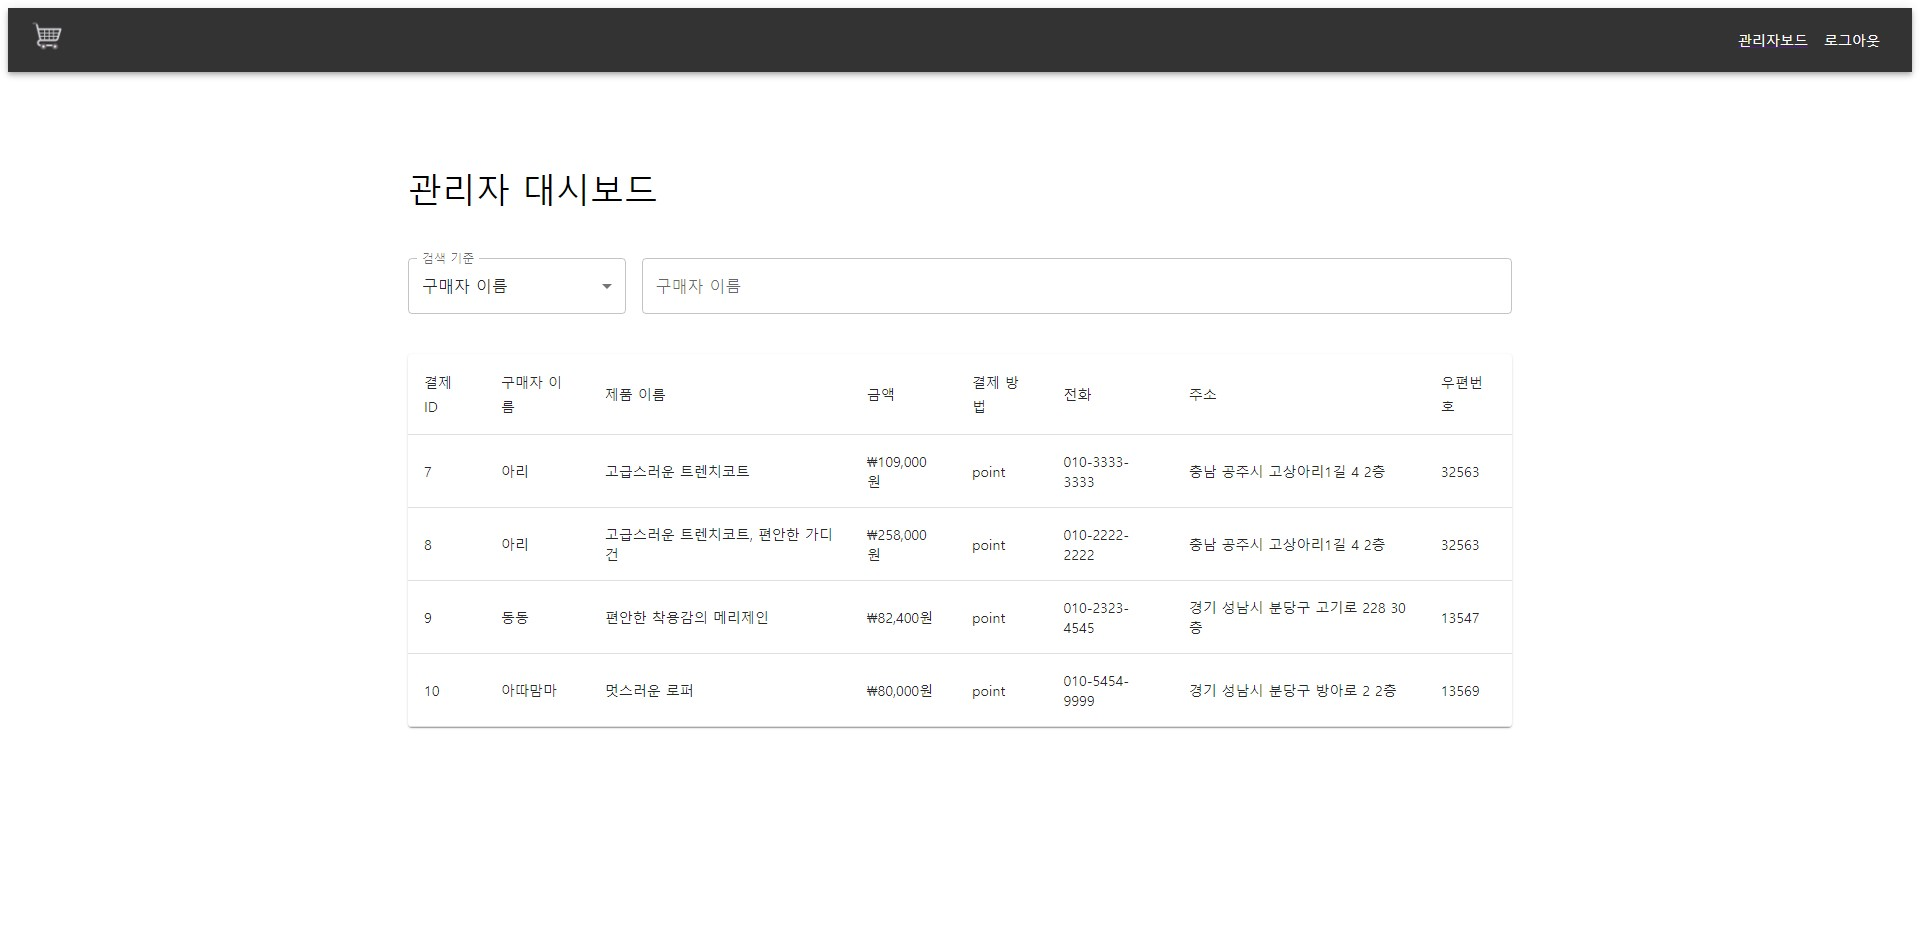
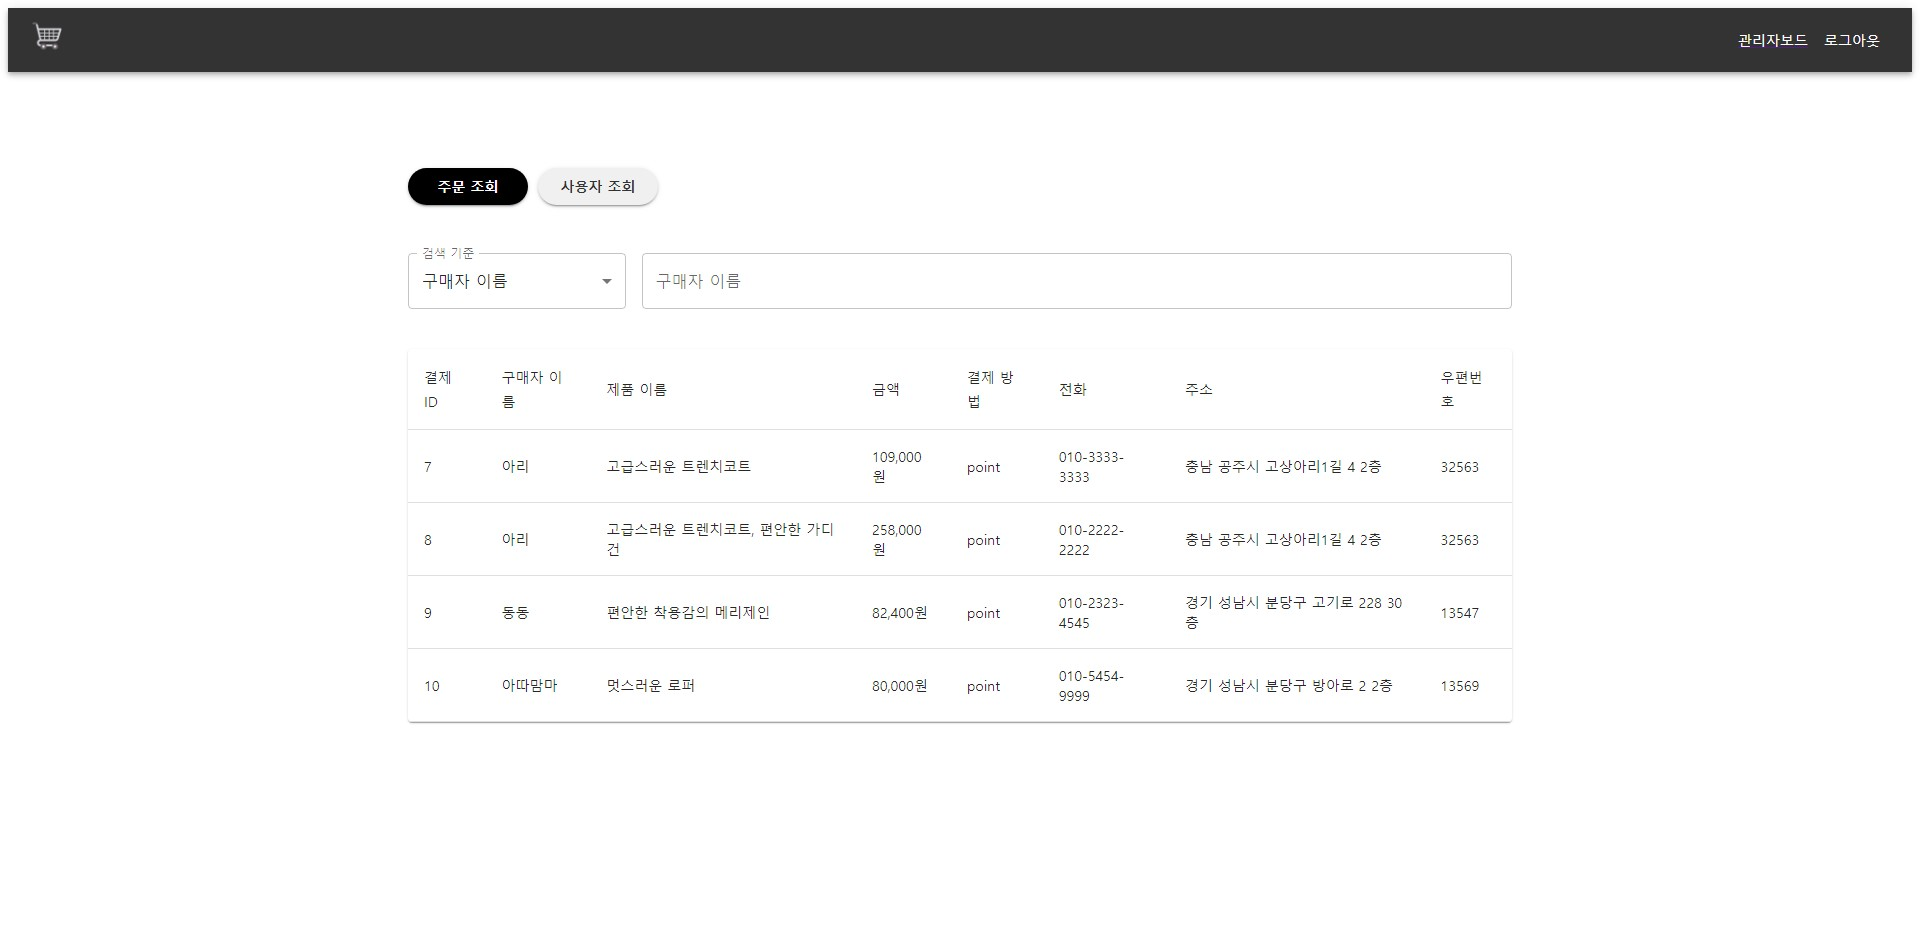
20240806 (dashboard 추가) commit

diff --git a/pages/admins/dashboard.js b/pages/admins/dashboard.js
@@ -220,13 +220,13 @@ const Dashboard = () => {
           variant="contained"
           onClick={() => handleViewChange("orders")}
           sx={{
-            backgroundColor: "#f0f0f0",
+            backgroundColor: view === "orders" ? "#000" : "#f0f0f0",
             borderRadius: "20px",
             fontWeight: "bold",
             width: "120px",
-            color: "#333",
+            color: view === "orders" ? "#fff" : "#333",
             "&:hover": {
-              backgroundColor: "#d0d0d0",
+              backgroundColor: view === "orders" ? "#333" : "#d0d0d0",
             },
           }}
         >
@@ -237,13 +237,14 @@ const Dashboard = () => {
           onClick={() => handleViewChange("users")}
           style={{ marginLeft: "10px" }}
           sx={{
-            backgroundColor: "#f0f0f0",
+            backgroundColor: view === "users" ? "#000" : "#f0f0f0",
             borderRadius: "20px",
             fontWeight: "bold",
             width: "120px",
-            color: "#333",
+            color: view === "users" ? "#fff" : "#333",
+            marginLeft: "10px",
             "&:hover": {
-              backgroundColor: "#d0d0d0",
+              backgroundColor: view === "users" ? "#333" : "#d0d0d0",
             },
           }}
         >
